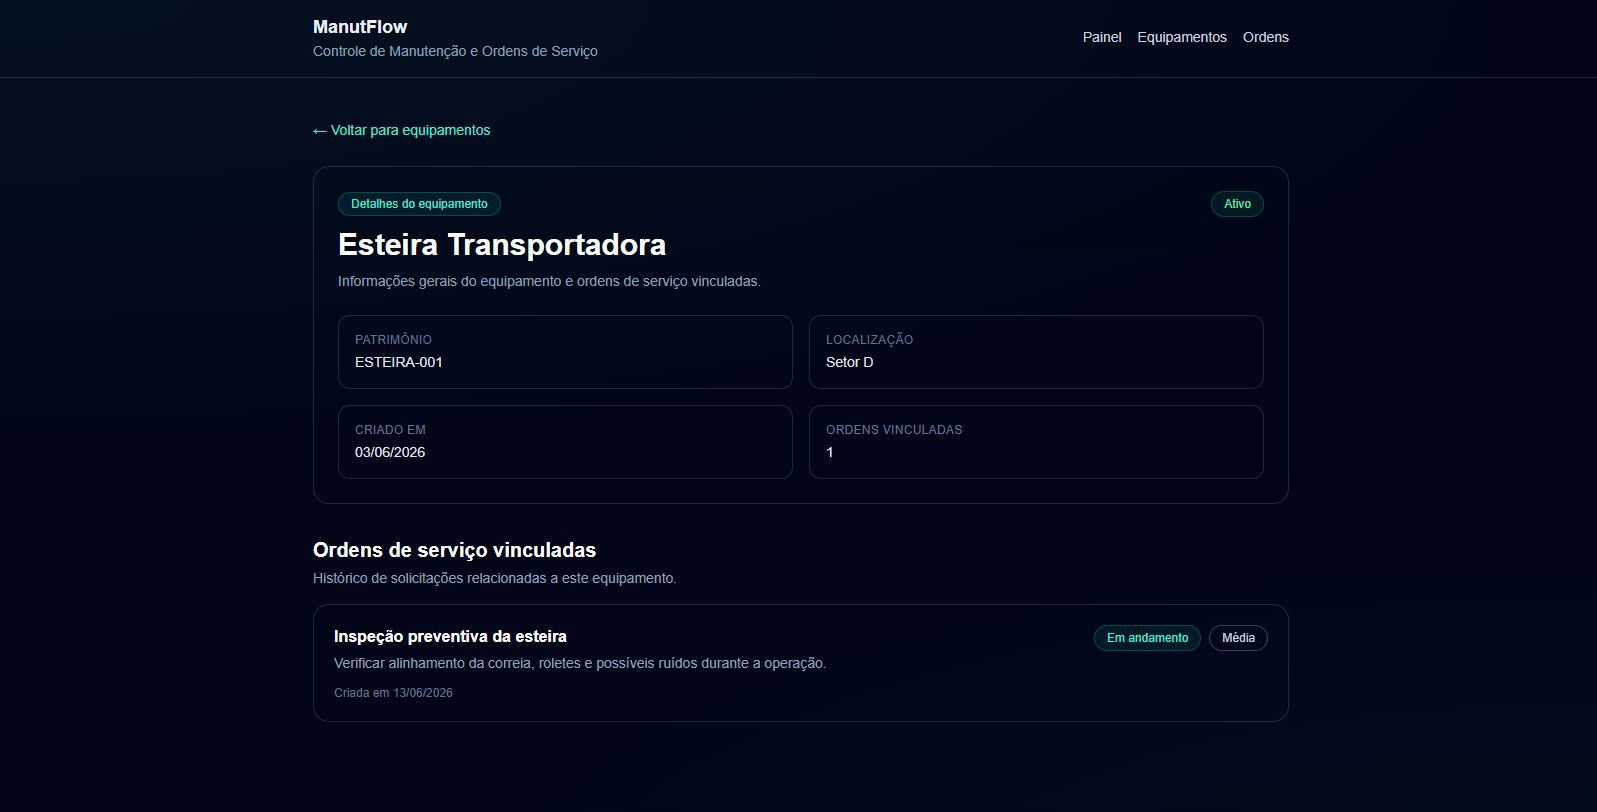
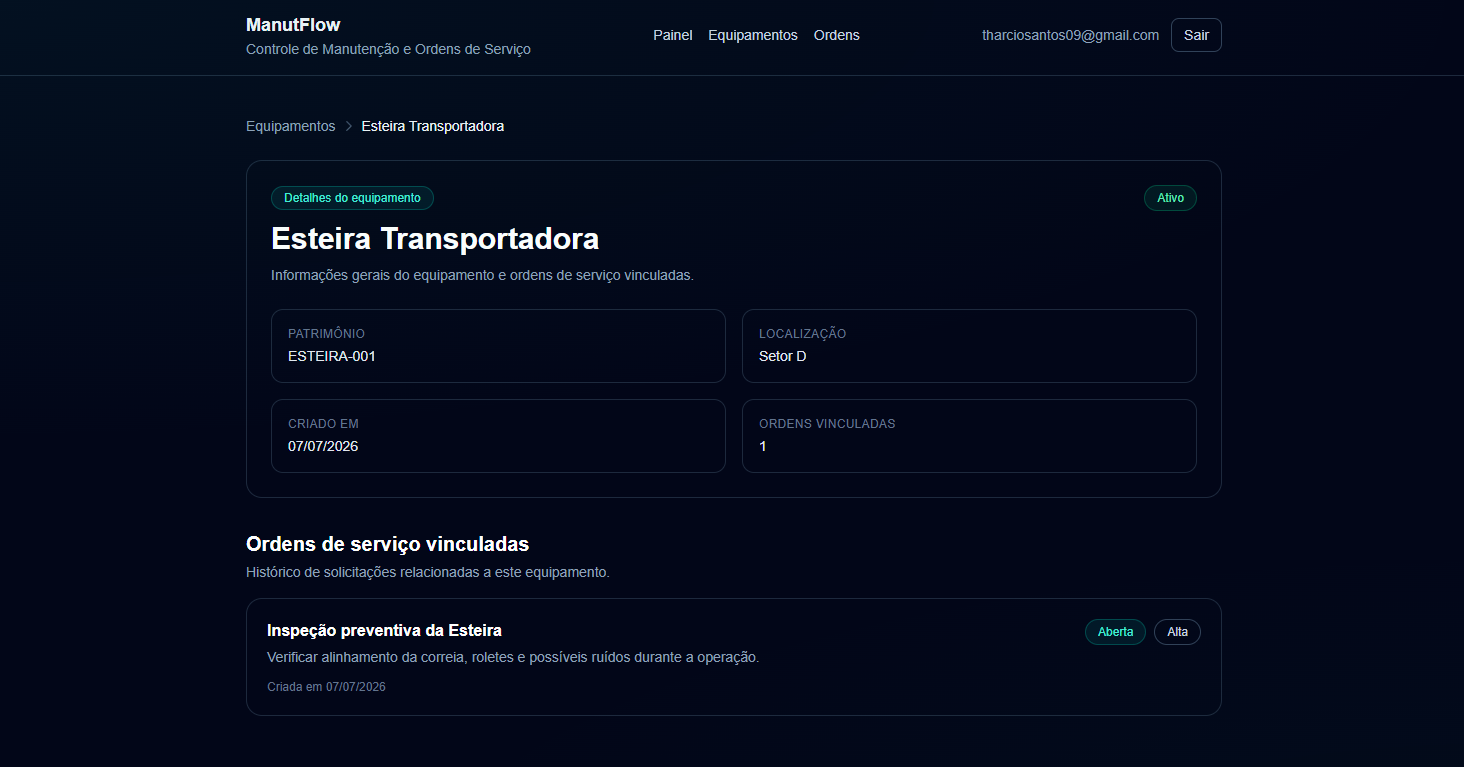
feat: adicionar componente Breadcrumbs, atualizar imagens do projeto e exibir nome completo no dashboard

diff --git a/src/components/ui/breadcrumbs.tsx b/src/components/ui/breadcrumbs.tsx
@@ -1,0 +1,63 @@
+import Link from "next/link";
+
+export type BreadcrumbItem = {
+  label: string;
+  href?: string;
+};
+
+type BreadcrumbsProps = {
+  items: BreadcrumbItem[];
+};
+
+export function Breadcrumbs({ items }: BreadcrumbsProps) {
+  return (
+    <nav aria-label="Breadcrumb" className="mb-6">
+      <ol className="flex flex-wrap items-center gap-1.5 text-sm">
+        {items.map((item, index) => {
+          const isLast = index === items.length - 1;
+
+          return (
+            <li key={index} className="flex items-center gap-1.5">
+              {index > 0 && (
+                <svg
+                  className="h-3.5 w-3.5 text-slate-600"
+                  fill="none"
+                  viewBox="0 0 24 24"
+                  stroke="currentColor"
+                  strokeWidth={2}
+                  aria-hidden="true"
+                >
+                  <path
+                    strokeLinecap="round"
+                    strokeLinejoin="round"
+                    d="M8.25 4.5l7.5 7.5-7.5 7.5"
+                  />
+                </svg>
+              )}
+
+              {isLast || !item.href ? (
+                <span
+                  className={
+                    isLast
+                      ? "font-medium text-slate-100"
+                      : "text-slate-500"
+                  }
+                  aria-current={isLast ? "page" : undefined}
+                >
+                  {item.label}
+                </span>
+              ) : (
+                <Link
+                  href={item.href}
+                  className="text-slate-400 transition hover:text-teal-300"
+                >
+                  {item.label}
+                </Link>
+              )}
+            </li>
+          );
+        })}
+      </ol>
+    </nav>
+  );
+}

diff --git a/src/app/page.tsx b/src/app/page.tsx
@@ -7,13 +7,15 @@ import { DashboardOverview } from "@/features/dashboard/dashboard-overview";
 import Link from "next/link";
 
 export default function Home() {
-  const [userEmail, setUserEmail] = useState<string | null>(null);
+  const [userName, setUserName] = useState<string | null>(null);
 
   useEffect(() => {
     async function getUser() {
       const { data: { user } } = await createClient().auth.getUser();
-      if (user?.email) {
-        setUserEmail(user.email.split("@")[0]);
+      if (user) {
+        // Tenta pegar o nome completo do user_metadata, senão usa a parte local do email
+        const name = user.user_metadata?.full_name || user.email?.split("@")[0] || null;
+        setUserName(name);
       }
     }
     getUser();
@@ -25,7 +27,7 @@ export default function Home() {
         {/* Saudação */}
         <div className="mb-8 animate-fade-in">
           <h1 className="text-2xl font-semibold text-slate-100">
-            Olá, {userEmail ? <span className="text-teal-400">{userEmail}</span> : "visitante"} 👋
+            Olá, {userName ? <span className="text-teal-400">{userName}</span> : "visitante"} 👋
           </h1>
           <p className="mt-1 text-sm text-slate-400">
             Bem-vindo ao ManutFlow. Aqui está o resumo do seu sistema.
